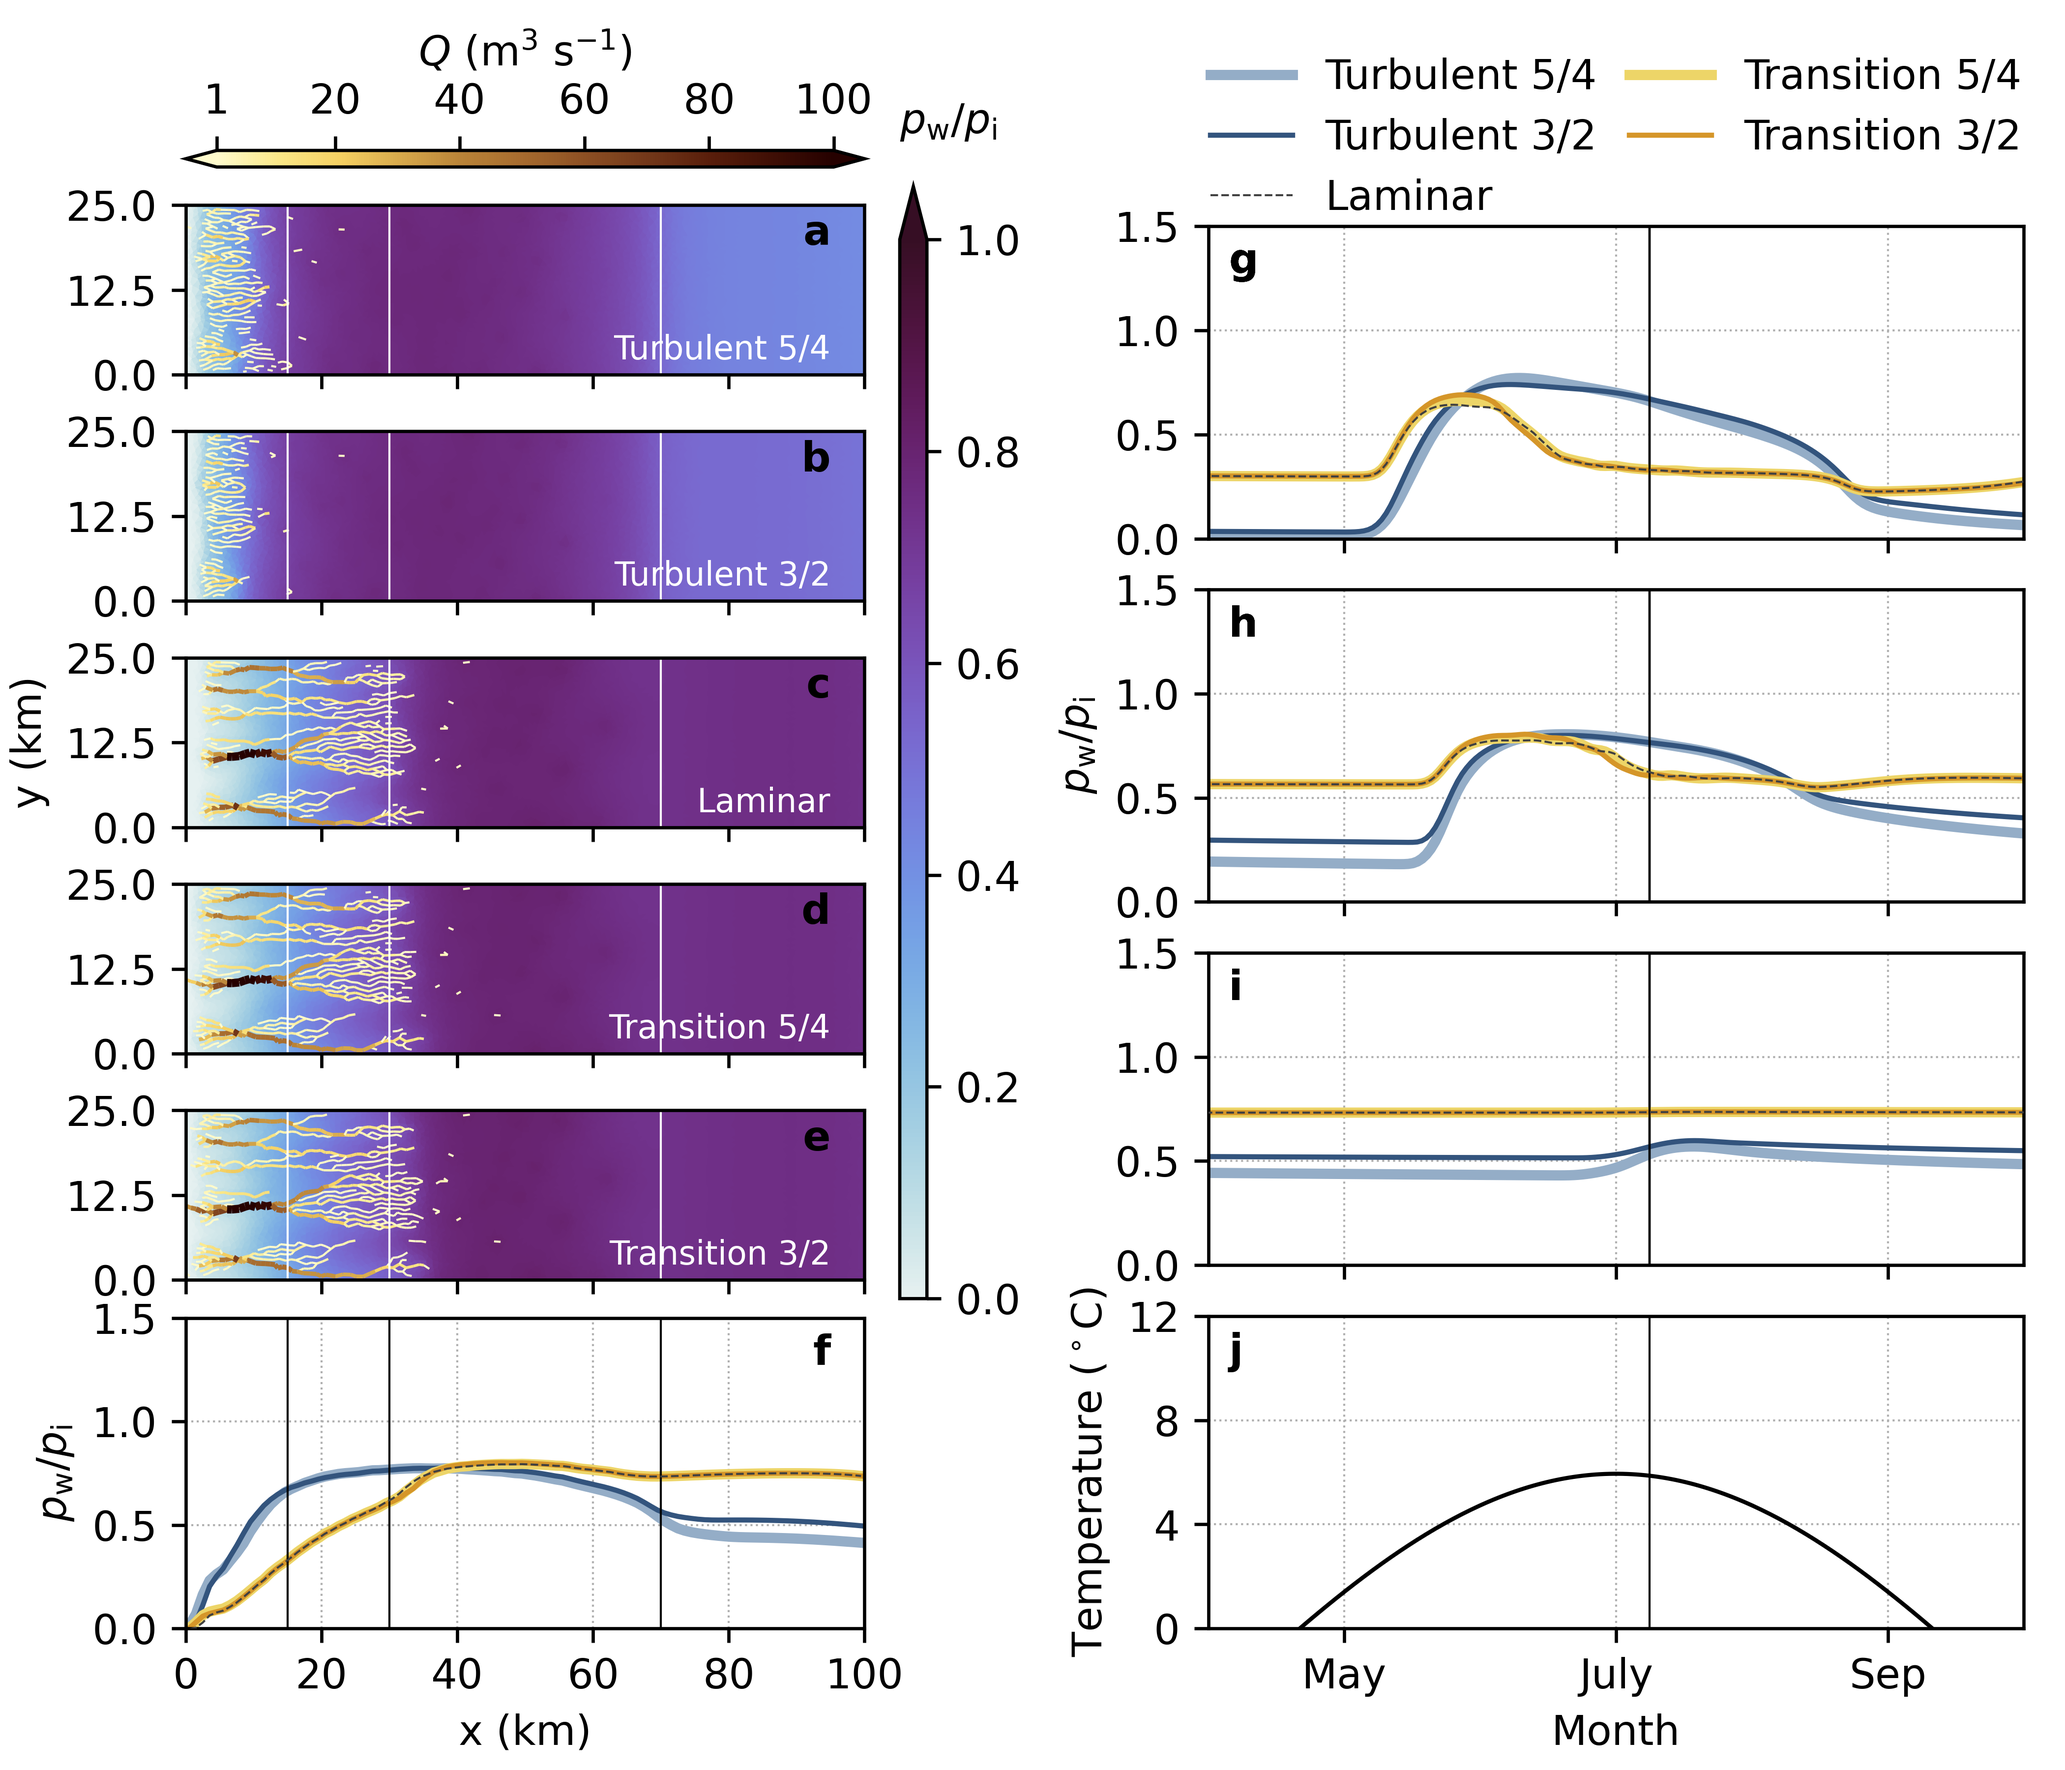
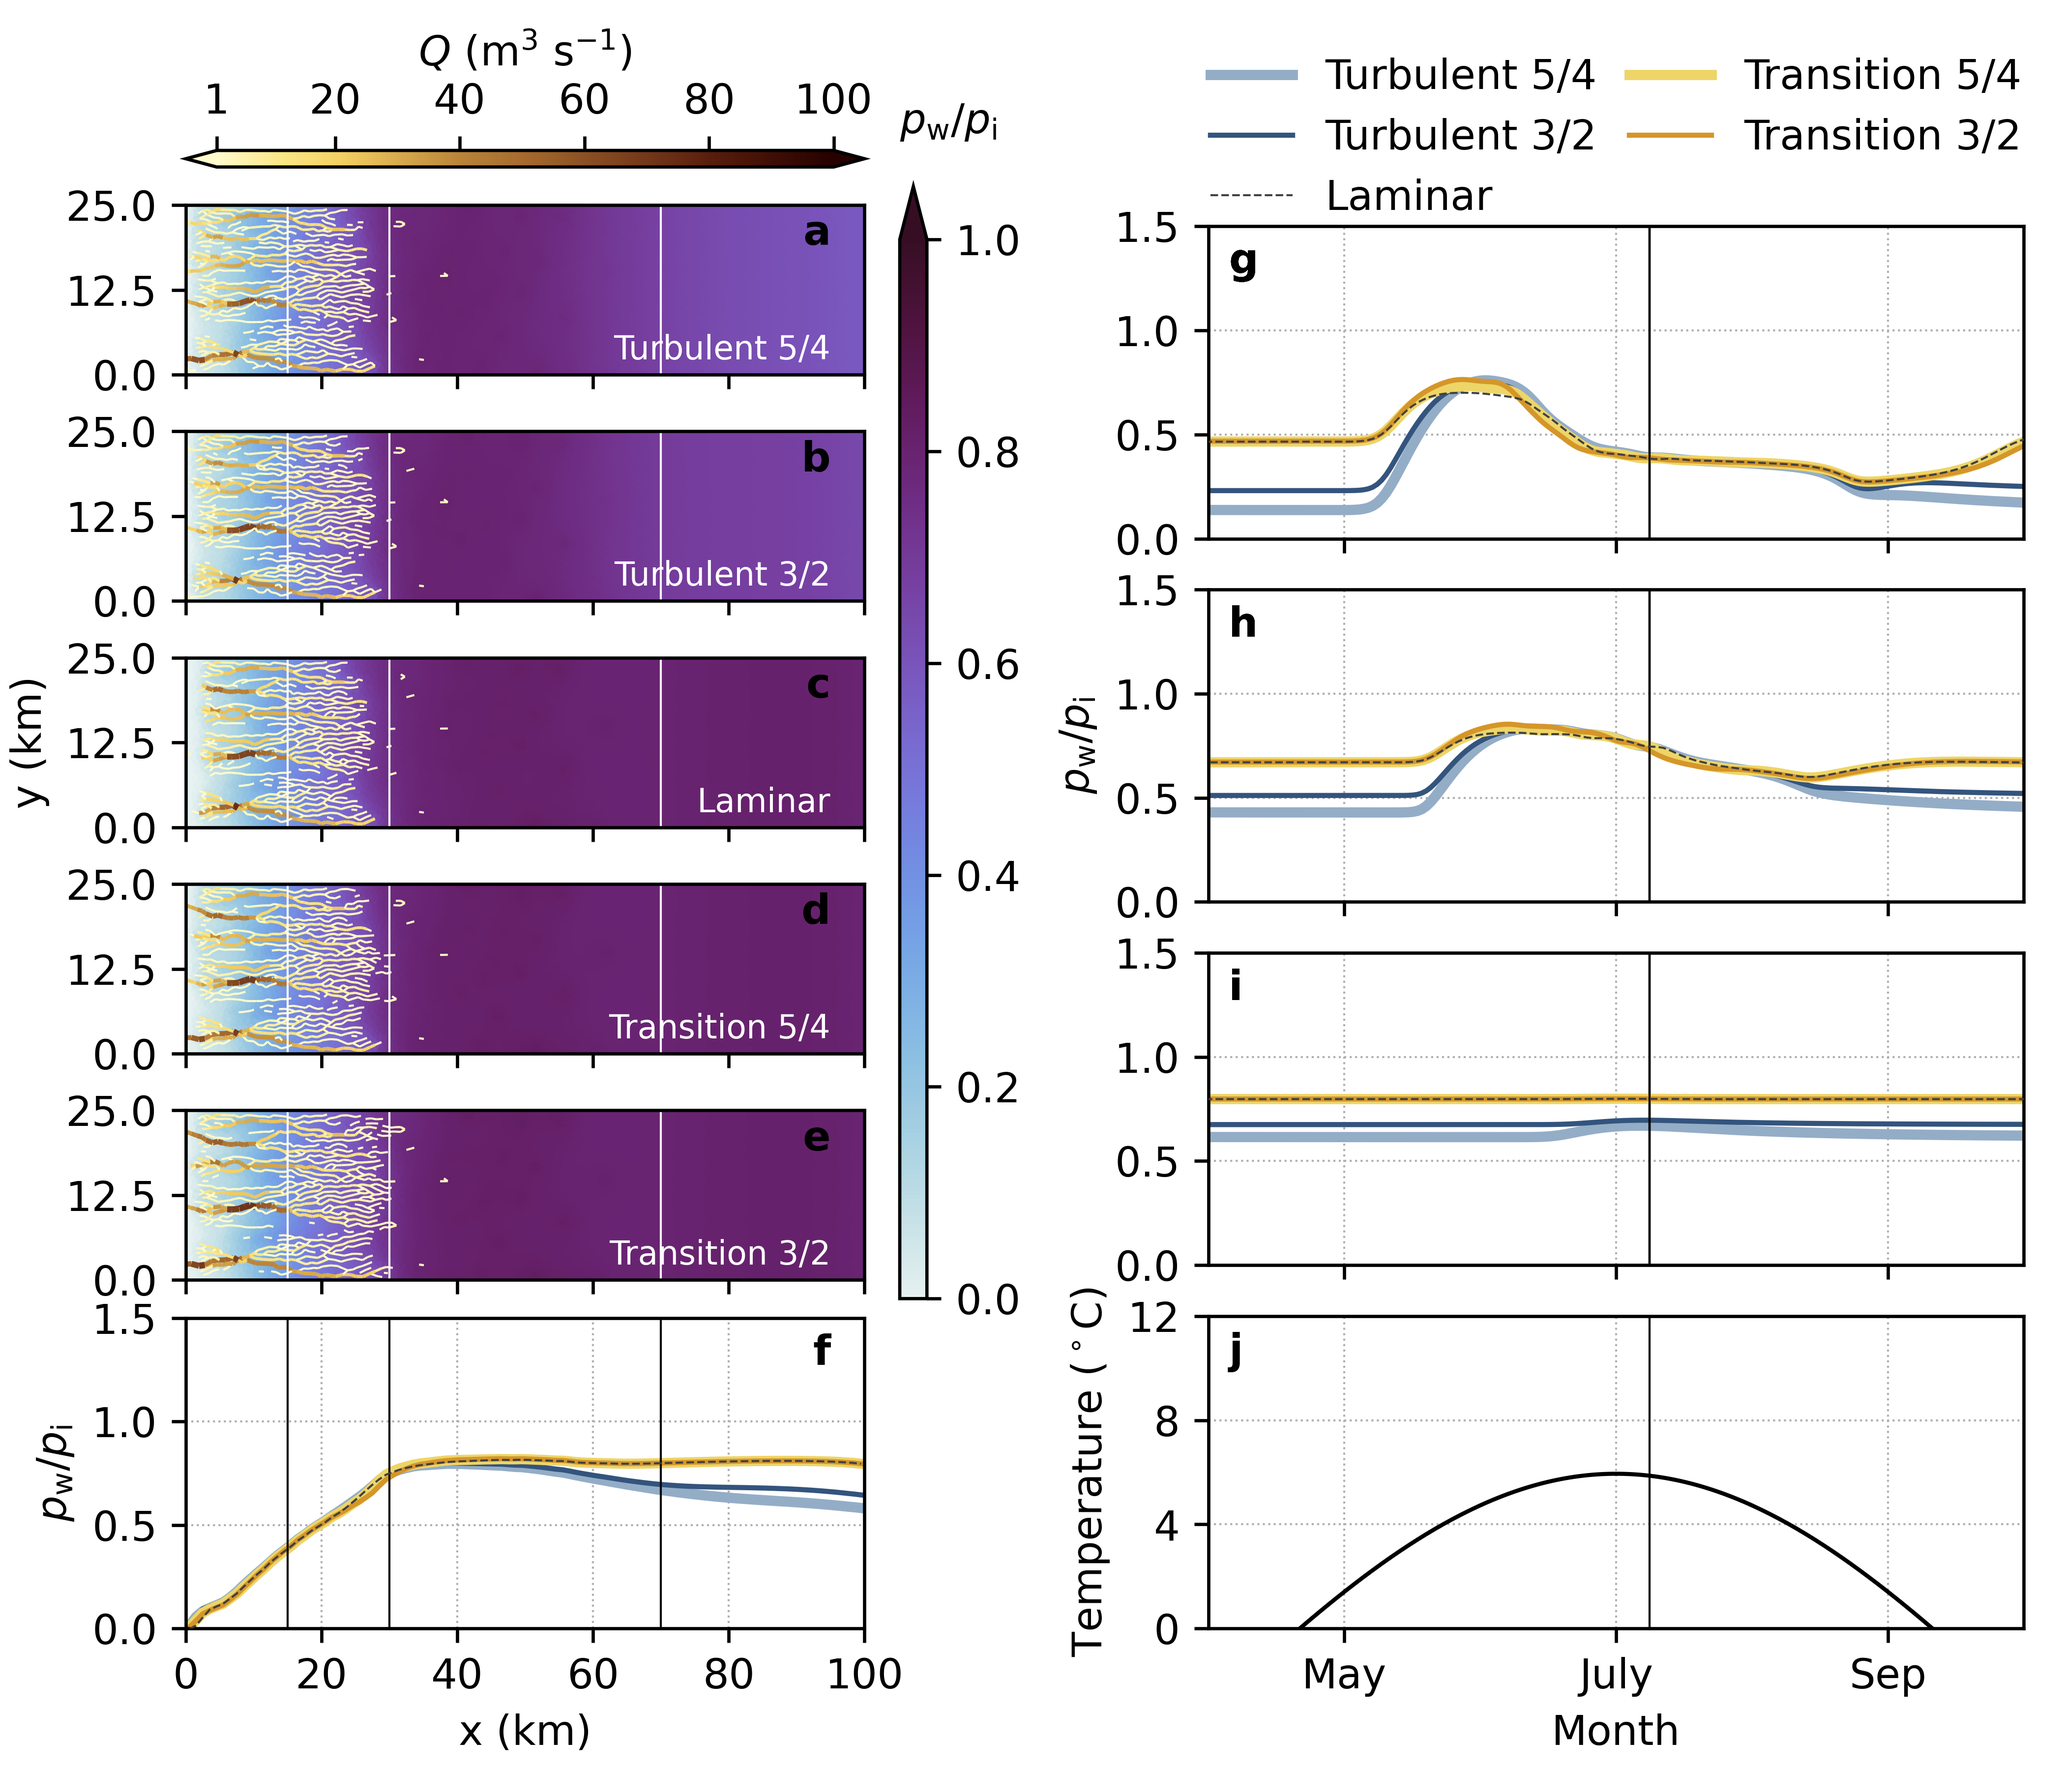
Clean

diff --git a/analysis/plot_pressure_maps_separate_timeseries.py b/analysis/plot_pressure_maps_separate_timeseries.py
@@ -40,7 +40,7 @@ def plot_pressure_maps_timeseries(fnames, figname, tslice=defaults.tslice,
     t_ticklabels=None, t_xlabel='Year', ff_yticks=[0, 0.5, 1, 1.5],
     melt_forcing='SHMIP', fill_between=False,
     lws=defaults.linewidths, linestyles=defaults.linestyles,
-    zorders=defaults.zorders):
+    zorders=defaults.zorders, prefix='/home/tghill/scratch/laminar-turbulent/'):
     """
     Plot 2D floatation fraction maps and timeseries.
 
@@ -106,14 +106,14 @@ def plot_pressure_maps_timeseries(fnames, figname, tslice=defaults.tslice,
 
     # Sort out melt forcing
     if melt_forcing=='KAN':
-        tt_temp = np.loadtxt('../glads/data/kan_l_melt/KAN_L_2014_temp_clipped.txt', delimiter=',')
+        tt_temp = np.loadtxt(prefix + 'glads/data/kan_l_melt/KAN_L_2014_temp_clipped.txt', delimiter=',')
         tt_days = tt_temp[:, 0]
         temp_sl = tt_temp[:, 1]
         lr = -0.005
         DT = lr*390
         temp_fun = lambda t: np.maximum(0*t, DT + np.interp(t%1, tt_days/365, temp_sl, left=0, right=0))
     elif melt_forcing=='KANadj':
-        tt_temp = np.loadtxt('../glads/data/kan_l_melt/KAN_L_2014_temp_adjusted.txt', delimiter=',')
+        tt_temp = np.loadtxt(prefix + 'glads/data/kan_l_melt/KAN_L_2014_temp_adjusted.txt', delimiter=',')
         tt_days = tt_temp[:, 0]
         temp_sl = tt_temp[:, 1]
         lr = -0.0075
@@ -182,7 +182,7 @@ def plot_pressure_maps_timeseries(fnames, figname, tslice=defaults.tslice,
 
             tt = out['time'][:].data/86400/365 - 100
 
-        with nc.Dataset('../glads/data/mesh/mesh_04.nc', 'r') as dmesh:
+        with nc.Dataset(prefix + 'glads/data/mesh/mesh_04.nc', 'r') as dmesh:
             node_area = dmesh['tri/area_nodes'][:].data
 
         # Initialize triangulation for faster plotting

diff --git a/analysis/make_pressure_figs.py b/analysis/make_pressure_figs.py
@@ -31,11 +31,13 @@ synth_opts={'t_ticklabels':t_ticklabels[:-1],
 
 ## Case 00: Flat topo, synthetic forcing
 cases = [1, 2, 3, 4, 5]
-fnames = ['../glads/00_synth_forcing/RUN/output_%03d_seasonal.nc'%caseid for caseid in cases]
+fnames = ['/home/tghill/scratch/laminar-turbulent/glads/00_synth_forcing/RUN/output_%03d_seasonal.nc'%caseid for caseid in cases]
+print(fnames)
 figname = 'figures/main/00_pressure_seasonal.png'
 fig_00 = plot_pressure_maps_timeseries(fnames, figname, melt_forcing='SHMIPadj', Qmin=1, Qmax=100,
     **synth_opts)
 
+"""
 ## Case 00a: Flat topo, standard SHMIP forcing
 cases = [1, 2, 3, 4, 5]
 fnames = ['../glads/00a_shmip_forcing/RUN/output_%03d_seasonal.nc'%caseid for caseid in cases]
@@ -165,5 +167,5 @@ fnames = [pattern % caseid for caseid in cases]
 figname = 'figures/supplement/S01b_pressure_seasonal_params.png'
 fig_01 = plot_pressure_maps_timeseries(fnames, figname, Qmin=1, Qmax=100, melt_forcing='KAN',
      **KAN_opts, ff_ylim=[0, 1.75], ff_yticks=[0, 0.5, 1, 1.5])
-
+"""
 plt.show()

diff --git a/glads/01_kan_forcing/get_para_seasonal.m b/glads/01_kan_forcing/get_para_seasonal.m
@@ -25,11 +25,6 @@ n_moulin = config.n_moulin;
 moulindata = readmatrix(sprintf('../data/moulins/moulins_%03d.txt', n_moulin));
 catchmap = readmatrix(sprintf('../data/moulins/catchment_map_%03d.txt', n_moulin));
 ii_moulin = moulindata(:, 1) + 1;
-
-% Distributed basal melt
-pin.source_term_s = make_anon_fn('@(xy, time) double(0.01/86400/365 + 0*xy(:, 1));');
-
-% Moulin inputs will need to be adjusted for diurnal simulations
 pin.source_term_c = make_anon_fn('@(time) double(KAN_moulin_seasonal(time, pin, dmesh, ii_moulin, catchmap));', pin, dmesh, ii_moulin, catchmap);
 
 %% Numerics

diff --git a/glads/00_synth_forcing/get_para_seasonal.m b/glads/00_synth_forcing/get_para_seasonal.m
@@ -31,10 +31,6 @@ n_moulin = config.n_moulin;
 moulindata = readmatrix(sprintf('../data/moulins/moulins_%03d.txt', n_moulin));
 catchmap = readmatrix(sprintf('../data/moulins/catchment_map_%03d.txt', n_moulin));
 ii_moulin = moulindata(:, 1) + 1;
-
-pin.source_term_s = make_anon_fn('@(xy, time) double(0.01/86400/365 + 0*xy(:, 1));');
-
-% Moulin inputs will need to be adjusted for diurnal simulations
 pin.source_term_c = make_anon_fn('@(time) double(source_moulin_shmip_adj_seasonal(time, pin, dmesh, ii_moulin, catchmap));', pin, dmesh, ii_moulin, catchmap);
 
 %% Numerics

diff --git a/glads/00_synth_forcing/get_para_steady.m b/glads/00_synth_forcing/get_para_steady.m
@@ -25,7 +25,6 @@ catchmap = readmatrix(sprintf('../data/moulins/catchment_map_%03d.txt', n_moulin
 ii_moulin = moulindata(:, 1) + 1;
 
 addpath(genpath('../data/shmip_melt/'))
-pin.source_term_s = make_anon_fn('@(xy, time) double(0.01/86400/365 + 0*xy(:, 1));');
 pin.source_term_c = make_anon_fn('@(time) double(source_moulin_shmip_adj_steady(time, pin, dmesh, ii_moulin, catchmap));', pin, dmesh, ii_moulin, catchmap);
 
 %% Nondimensionalize and re-wrap

diff --git a/glads/01_kan_forcing/get_para_steady.m b/glads/01_kan_forcing/get_para_steady.m
@@ -20,7 +20,6 @@ catchmap = readmatrix(sprintf('../data/moulins/catchment_map_%03d.txt', n_moulin
 ii_moulin = moulindata(:, 1) + 1;
 
 addpath(genpath('../data/kan_l_melt/'))
-pin.source_term_s = make_anon_fn('@(xy, time) double(0.01/86400/365 + 0*xy(:, 1));');
 pin.source_term_c = make_anon_fn('@(time) double(KAN_moulin_steady(time, pin, dmesh, ii_moulin, catchmap));', pin, dmesh, ii_moulin, catchmap);
 
 %% Nondimensionalize and re-wrap

diff --git a/glads/get_para.m b/glads/get_para.m
@@ -62,6 +62,9 @@ pin.e_v = make_anon_fn('@(xy) double(0*xy(:,1) + e_v)',e_v);
 u_bed = 30/pp.year;
 pin.u_bed = make_anon_fn('@(xy) double(0*xy(:, 1) + u_bed)', u_bed);
 
+% Basal melt rate
+pin.source_term_s = make_anon_fn('@(xy, time) double(0.05/86400/365 + 0*xy(:, 1));');
+
 pp.float_frac = 0; % used below for BC
 
 %% Numerics
